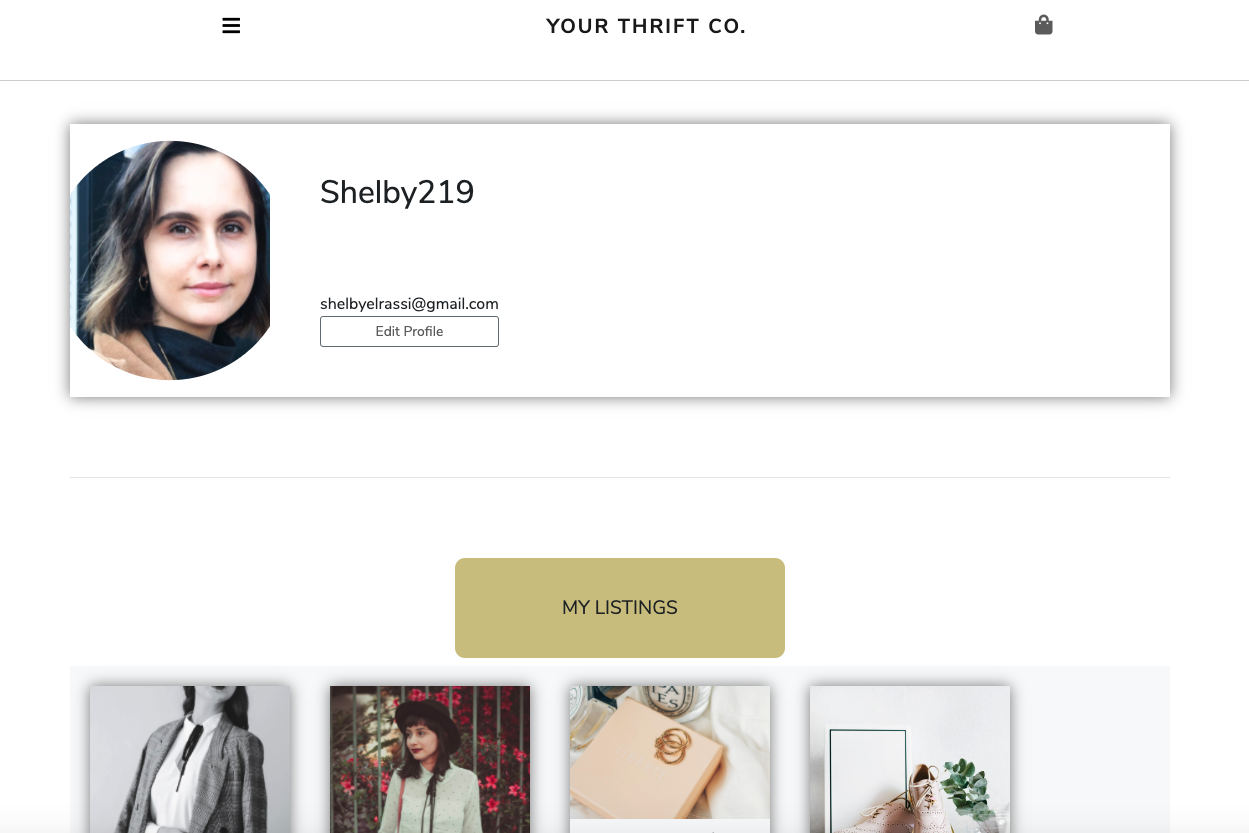
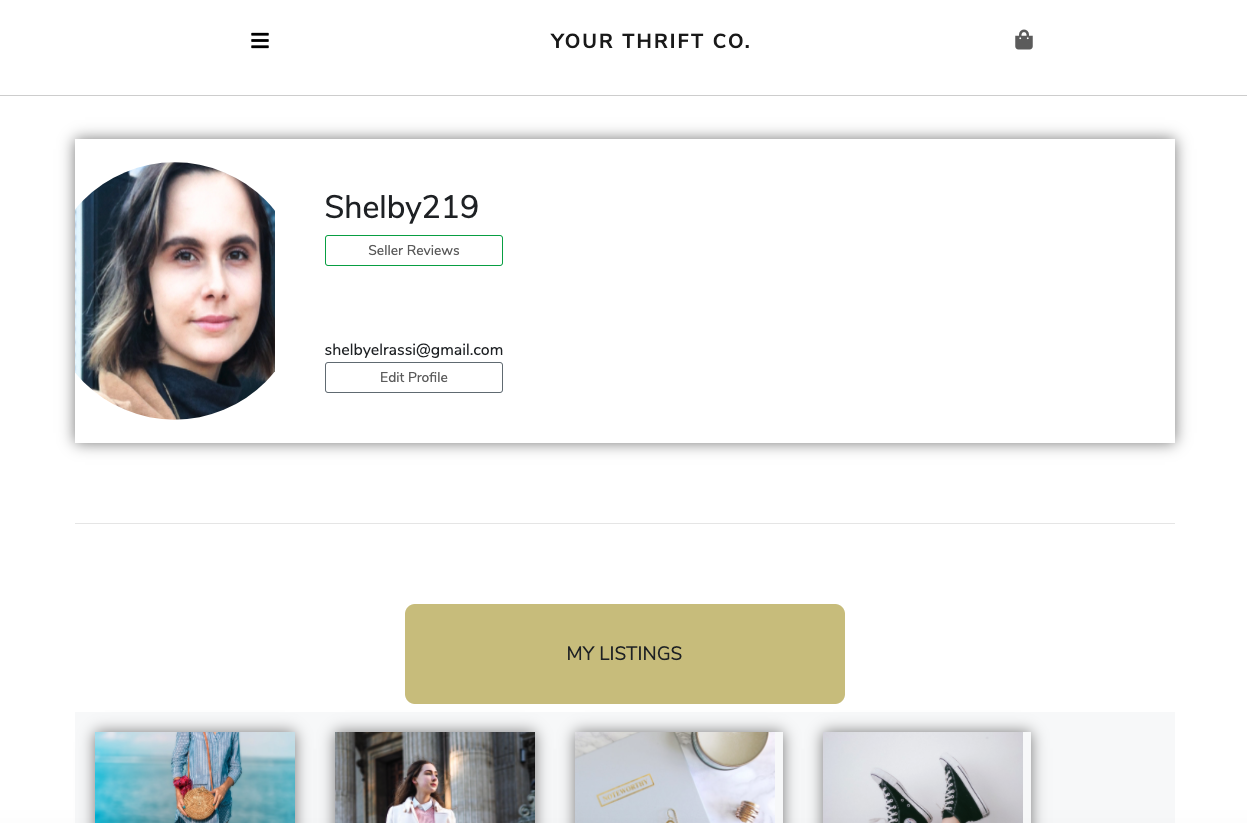
final

diff --git a/README.md b/README.md
@@ -87,6 +87,8 @@ Another notable purpose of the application is the ability for users to, in a sen
 ![Shot of Site 9](https://github.com/Shelby219/Your-Thrift-Co./blob/master/docs/Site9.png)
 ##### Shopping Bag
 ![Shot of Site 10](https://github.com/Shelby219/Your-Thrift-Co./blob/master/docs/Site10.png)
+##### User Reviews
+![Shot of Site 10](https://github.com/Shelby219/Your-Thrift-Co./blob/master/docs/Site11.png)
 
 
 ### Target audience
